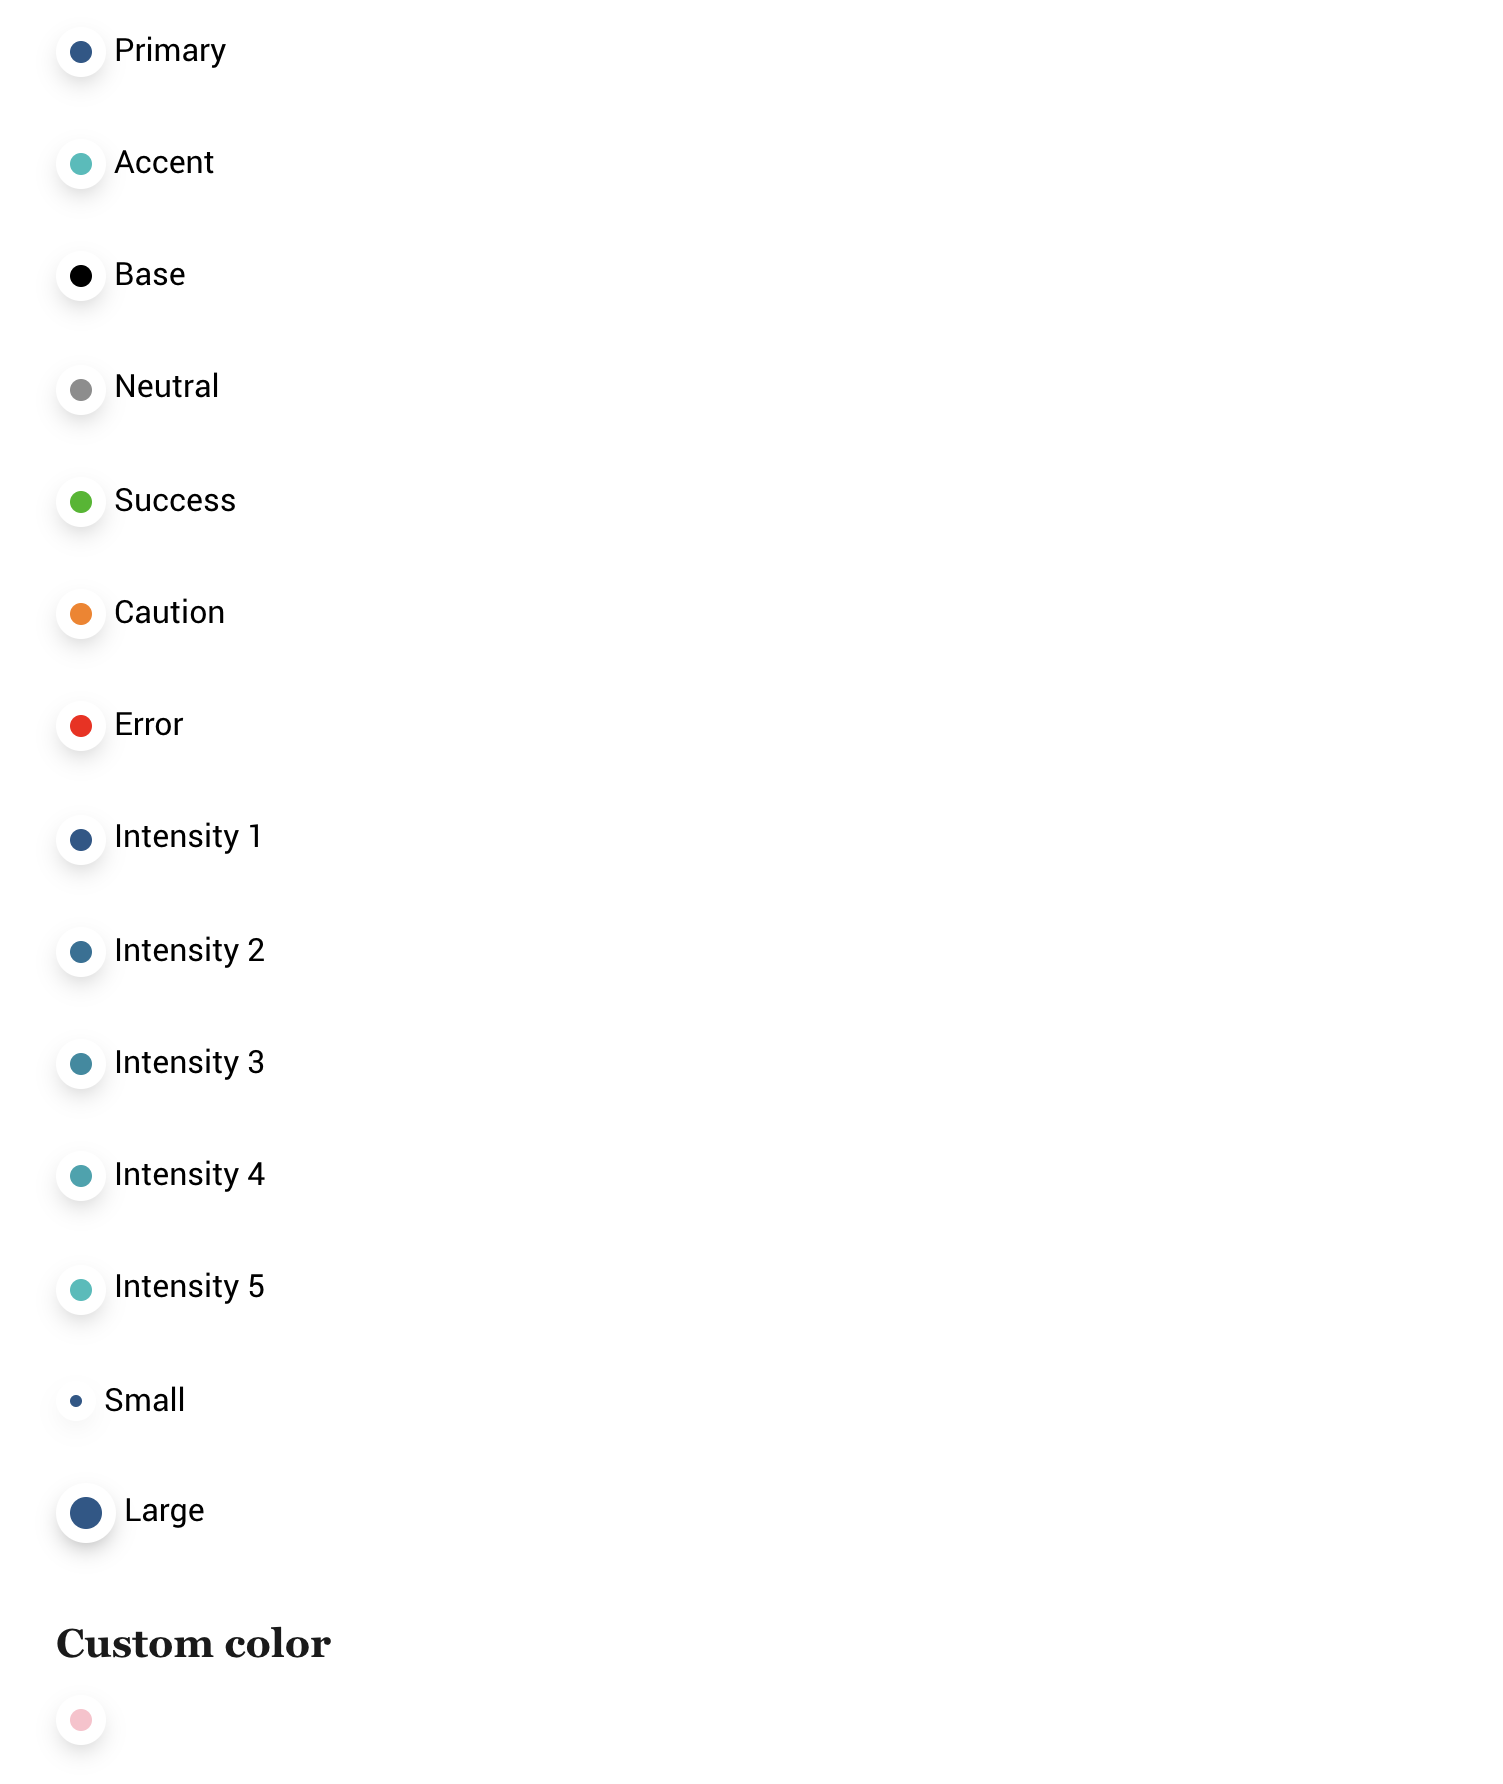
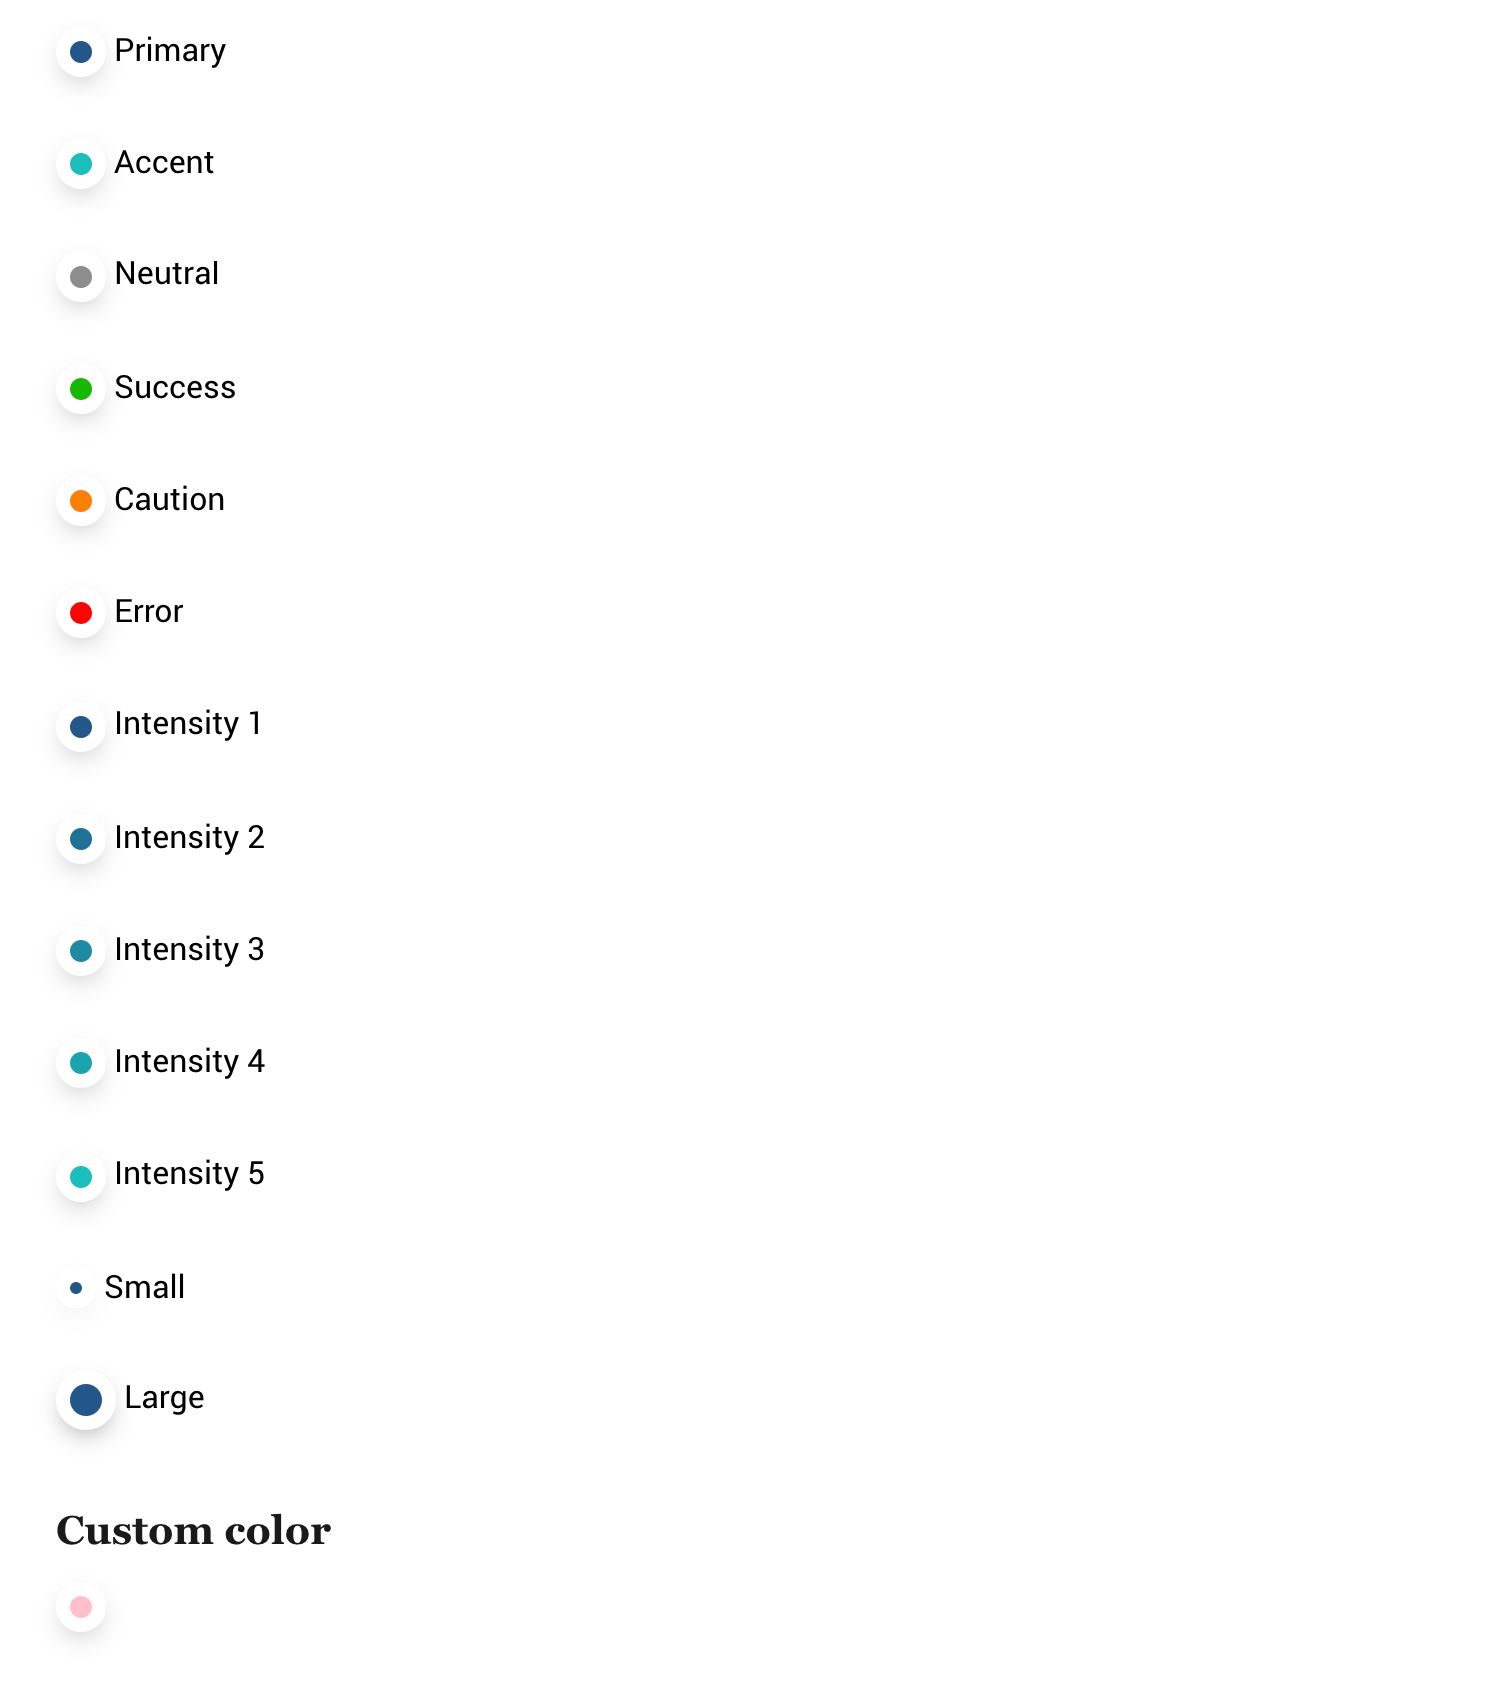
eee

diff --git a/assets/styles/style.css b/assets/styles/style.css
@@ -662,16 +662,6 @@ big {
 .fill-none-toggle.open {
   fill: none !important; }
 
-.fill-base,
-.fill-base-hover:hover:not(.open):not(.active),
-.fill-base-focus:focus:not(.open):not(.active),
-.fill-base-active:active:not(.open):not(.active),
-.fill-base-focus.focus,
-.fill-base-active.active,
-.fill-base-toggle.active,
-.fill-base-toggle.open {
-  fill: #000000 !important; }
-
 .fill-primary,
 .fill-primary-hover:hover:not(.open):not(.active),
 .fill-primary-focus:focus:not(.open):not(.active),
@@ -878,16 +868,6 @@ big {
 .stroke-none-toggle.open {
   stroke: none !important; }
 
-.stroke-base,
-.stroke-base-hover:hover:not(.open):not(.active),
-.stroke-base-focus:focus:not(.open):not(.active),
-.stroke-base-active:active:not(.open):not(.active),
-.stroke-base-focus.focus,
-.stroke-base-active.active,
-.stroke-base-toggle.active,
-.stroke-base-toggle.open {
-  stroke: #000000 !important; }
-
 .stroke-primary,
 .stroke-primary-hover:hover:not(.open):not(.active),
 .stroke-primary-focus:focus:not(.open):not(.active),
@@ -1069,8 +1049,6 @@ table {
       height: calc(6.5625rem - (5px * 2)); }
     .table-small .table-label {
       height: calc(3.125rem - (5px * 2)); }
-  .table-row-base {
-    background-color: rgba(0, 0, 0, 0.2); }
   .table-row-primary {
     background-color: rgba(4, 128, 254, 0.2); }
   .table-row-accent {
@@ -5155,29 +5133,6 @@ table {
       .input-group.input-group-responsive > .input:nth-child(n+2), .input-group.input-group-responsive > .input:nth-child(n+2):hover, .input-group.input-group-responsive .btn:nth-child(n+2), .input-group.input-group-responsive .btn:nth-child(n+2):hover, .input-group.input-group-responsive .trumbowyg:nth-child(n+2), .input-group.input-group-responsive .trumbowyg:nth-child(n+2):hover {
         border-top-color: rgba(0, 0, 0, 0.1) !important; } }
 
-.input-label.input-label-base,
-.input-wrapper-base .input-label, .input-label.input-label-base:focus,
-.input-wrapper-base .input-label:focus, .focus.input-label.input-label-base,
-.input-wrapper-base .focus.input-label {
-  color: #000000 !important; }
-
-.input.input-base:not(:focus):not(.focus),
-.input-wrapper-base .input:not(:focus):not(.focus) {
-  color: #000000 !important;
-  box-shadow: 0px 5px 15px -8px #000000 !important;
-  background-color: rgba(0, 0, 0, 0.05); }
-
-.input.input-base,
-.input-wrapper-base .input, .input.input-base:focus,
-.input-wrapper-base .input:focus, .focus.input.input-base,
-.input-wrapper-base .focus.input {
-  border-color: #000000 !important; }
-  .input-group .input.input-base,
-  .input-group .input-wrapper-base .input, .input-wrapper-base .input-group .input, .input-group .input.input-base:focus,
-  .input-group .input-wrapper-base .input:focus, .input-wrapper-base .input-group .input:focus, .input-group .focus.input.input-base,
-  .input-group .input-wrapper-base .focus.input, .input-wrapper-base .input-group .focus.input {
-    border-color: transparent !important; }
-
 .input-label.input-label-primary,
 .input-wrapper-primary .input-label, .input-label.input-label-primary:focus,
 .input-wrapper-primary .input-label:focus, .focus.input-label.input-label-primary,
@@ -5716,9 +5671,6 @@ CUSTOM STYLES FOR TRUMBOWYG
 
 /*** HELPERS ***/
 /* BACKGROUND CLASSES */
-.table-label-base, .progress-bar-base, .badge-base, .tag-base, .legend-base {
-  background-color: #000000; }
-
 .background-base,
 .background-base-hover:hover:not(.open):not(.active),
 .background-base-focus:focus:not(.open):not(.active),
@@ -6913,6 +6865,12 @@ DASHBOARD / OUR CUSTOM STYLES
   height: 100vh; }
   #dashboard-block-sidebar::-webkit-scrollbar {
     display: none !important; }
+  #dashboard-block-sidebar .container {
+    opacity: 1;
+    -webkit-transition: opacity 0.25s ease-in-out;
+    transition: opacity 0.25s ease-in-out; }
+    #dashboard-block-sidebar .container body:not(.body-loaded) {
+      opacity: 0; }
   #dashboard-block-sidebar .sidebar-logo,
   #dashboard-block-sidebar .sidebar-logo img,
   #dashboard-block-sidebar .sidebar-logo svg {

diff --git a/assets/plugins/framework/scss/import/_internal-vars.scss b/assets/plugins/framework/scss/import/_internal-vars.scss
@@ -50,7 +50,7 @@ $calculated-symbol-caret-width:$symbol-caret-width;
 
 //for helpers
 $calculated-brand-color-declarations : (
-	base: $brand-color-base,
+	// base: $brand-color-base,
 	// background: $brand-color-background,
 	primary: $brand-color-primary,
 	accent: $brand-color-accent,

diff --git a/assets/styles/_dashboard.scss b/assets/styles/_dashboard.scss
@@ -66,6 +66,15 @@ $sidebar-base: 285px;
 				display:none!important;
 			}
 
+			.container {
+				opacity: 1;
+				transition: opacity $transition-duration-base $transition-timing;
+
+				body:not(.body-loaded) {
+					opacity: 0;
+				}
+			}
+
 			.sidebar {
 				&-logo {
 

diff --git a/template/demos.php b/template/demos.php
@@ -348,9 +348,6 @@
 					<div class="progress-bar" style="width: 10%"></div>
 				</div>
 				<br>
-				<div class="progress">
-					<div class="progress-bar progress-bar-base" style="width: 46%"></div>
-				</div>
 				<br>
 				<div class="progress">
 					<div class="progress-bar progress-bar-primary" style="width: 20%"></div>
@@ -721,11 +718,6 @@
 						<p class="input-wrapper input-wrapper-horizontal">
 							<label class="input-label input-label-accent" for="input-accent">accent: </label>
 							<input class="input input-single-line input-accent" id="input-accent" placeholder="accent" type="text">
-						</p>
-
-						<p class="input-wrapper input-wrapper-horizontal">
-							<label class="input-label input-label-base" for="input-base">base: </label>
-							<input class="input input-single-line input-base" id="input-base" placeholder="base" type="text">
 						</p>
 
 						<p class="input-wrapper input-wrapper-horizontal">
@@ -1480,7 +1472,6 @@
 			<button type="button" class="btn btn-primary">Primary</button>
 			<button type="button" class="btn btn-accent">accent</button>
 			<button type="button" class="btn btn-neutral">neutral</button>
-			<button type="button" class="btn btn-base">base</button>
 			<button type="button" class="btn btn-success">Success</button>
 			<button type="button" class="btn btn-caution">caution</button>
 			<button type="button" class="btn btn-error">error</button>
@@ -1491,7 +1482,6 @@
 			<button type="button" class="btn btn-small btn-primary">Primary</button>
 			<button type="button" class="btn btn-small btn-accent">accent</button>
 			<button type="button" class="btn btn-small btn-neutral">neutral</button>
-			<button type="button" class="btn btn-small btn-base">base</button>
 			<button type="button" class="btn btn-small btn-success">Success</button>
 			<button type="button" class="btn btn-small btn-caution">caution</button>
 			<button type="button" class="btn btn-small btn-error">error</button>
@@ -1502,7 +1492,7 @@
 			<button type="button" class="btn btn-large btn-primary">Primary</button>
 			<button type="button" class="btn btn-large btn-accent">accent</button>
 			<button type="button" class="btn btn-large btn-neutral">neutral</button>
-			<button type="button" class="btn btn-large btn-base">base</button>
+			
 			<button type="button" class="btn btn-large btn-success">Success</button>
 			<button type="button" class="btn btn-large btn-caution">caution</button>
 			<button type="button" class="btn btn-large btn-error">error</button>
@@ -1510,7 +1500,7 @@
 
 			<h2>Block</h2>
 
-			<button type="button" class="btn btn-large btn-block btn-success font-weight-300"><i class="badge badge-success"></i> button Block for when you want to take over the world</button>
+			<button type="button" class="btn btn-large btn-block btn-success"><i class="badge badge-success"></i> button Block for when you want to take over the world</button>
 			<h2>
 				Disabled
 			</h2>
@@ -1518,7 +1508,6 @@
 			<a href="#" class="btn btn-disabled btn-primary">Primary</a>
 			<a href="#" class="btn btn-disabled btn-accent">accent</a>
 			<a href="#" class="btn btn-disabled btn-neutral">neutral</a>
-			<a href="#" class="btn btn-disabled btn-base">base</a>
 			<a href="#" class="btn btn-disabled btn-success">Success</a>
 			<a href="#" class="btn btn-disabled btn-caution">caution</a>
 			<a href="#" class="btn btn-disabled btn-error">error</a>
@@ -1846,9 +1835,7 @@
 			<p>
 				<span class="badge badge-accent"></span> Accent
 			</p>
-			<p>
-				<span class="badge badge-base"></span> Base
-			</p>
+			
 			<p>
 				<span class="badge badge-neutral"></span> Neutral
 			</p>
@@ -1901,10 +1888,6 @@
 			</p>
 
 			<p>
-				<span class="legend legend-base"></span> Base
-			</p>
-
-			<p>
 				<span class="legend legend-neutral"></span> Neutral
 			</p>
 
@@ -1949,7 +1932,6 @@
 		<div class="accordion">
 			<span class="tag tag-primary">Primary</span>
 			<span class="tag tag-accent">Accent</span>
-			<span class="tag tag-base">Base</span>
 			<span class="tag tag-neutral">Neutral</span>
 			<span class="tag tag-success">Success</span>
 			<span class="tag tag-caution">Caution</span>
@@ -2170,13 +2152,6 @@
 					<tr class="table-row-neutral">
 						<td class="table-cell-no-gutter"><span class="table-label table-label-neutral"></span></td>
 						<td>neutral</td>
-						<td>Column content</td>
-						<td class="text-align-right">Column content</td>
-						<td class="text-align-center">0</td>
-					</tr>
-					<tr class="table-row-base">
-						<td class="table-cell-no-gutter"><span class="table-label table-label-base"></span></td>
-						<td>base</td>
 						<td>Column content</td>
 						<td class="text-align-right">Column content</td>
 						<td class="text-align-center">0</td>
@@ -2845,9 +2820,6 @@
 						</g>
 						<g>
 							<rect x="600" y="177.5" class="fill-neutral" width="0" height="76.1"></rect>
-						</g>
-						<g>
-							<rect x="480" y="262" class="fill-base" width="120" height="76.1"></rect>
 						</g>
 						<g>
 							<rect y="346.5" class="fill-success stroke-error" width="600" height="76.1"></rect>

diff --git a/assets/plugins/framework/docs/sections/components/progress.md b/assets/plugins/framework/docs/sections/components/progress.md
@@ -13,7 +13,6 @@ A bitch that shows progress using **.progress** and  **.progress-bar**
 
 To color the progress, add `.progress-bar-[color-tag]` to `.progress-bar`
 
-*	**`.progress-bar-base`**
 *	**`.progress-bar-primary`**
 *	**`.progress-bar-accent`**
 *	**`.progress-bar-neutral`**
@@ -32,9 +31,6 @@ To color the progress, add `.progress-bar-[color-tag]` to `.progress-bar`
 	<div class="progress-bar" style="width: 10%"></div>
 </div>
 <br>
-<div class="progress">
-	<div class="progress-bar progress-bar-base" style="width: 46%"></div>
-</div>
 <br>
 <div class="progress">
 	<div class="progress-bar progress-bar-primary" style="width: 20%"></div>
@@ -87,7 +83,7 @@ the color can be customized by adding a background-color property to `.progress-
 
 ```html
 <div class="progress">
-	<div class="progress-bar progress-bar-base" style="background-color:pink;"></div>
+	<div class="progress-bar" style="background-color:pink;"></div>
 </div>
 ```
 

diff --git a/assets/plugins/framework/docs/sections/components/form.md b/assets/plugins/framework/docs/sections/components/form.md
@@ -507,7 +507,6 @@ To set the wrapper to a full width block, add **`.input-wrapper-block`**
 
 To add feedback color the `.input`, add `.input-[color-tag]`.
 
-*	**`.input-base`**
 *	**`.input-primary`**
 *	**`.input-accent`**
 *	**`.input-neutral`**
@@ -519,7 +518,6 @@ To add feedback color the `.input`, add `.input-[color-tag]`.
 
 To add feedback color the `.input-label`, add `.input-[color-tag]`.
 
-*	**`.label-base`**
 *	**`.label-primary`**
 *	**`.label-accent`**
 *	**`.label-neutral`**
@@ -533,7 +531,6 @@ To add feedback color the `.input-label`, add `.input-[color-tag]`.
 
 Adding the color class on `.input-group` styles both the `.input-label` and `.input` within it
 
-*	**`.input-wrapper-base`**
 *	**`.input-wrapper-primary`**
 *	**`.input-wrapper-accent`**
 *	**`.input-wrapper-neutral`**

diff --git a/assets/plugins/framework/docs/sections/scaffolding/helpers.md b/assets/plugins/framework/docs/sections/scaffolding/helpers.md
@@ -9,6 +9,7 @@ All influenced by [color declarations](../scaffolding/colors.md)
 #### Background
 
 *   **`.background-base` (Not to be confused with theme-color)**
+*   **`.background-background` (Not to be confused with theme-background)**
 *   **`.background-primary`**
 *   **`.background-accent`**
 *   **`.background-neutral`**
@@ -40,6 +41,7 @@ This will add gradient colors. By default, the gradient will be at angle 0deg, a
 #### Color
 
 *   **`.color-base` (Not to be confused with theme-color)**
+*   **`.color-background` (Not to be confused with theme-background)**
 *   **`.color-primary`**
 *   **`.color-accent`**
 *   **`.color-neutral`**

diff --git a/assets/plugins/framework/docs/sections/scaffolding/images.md b/assets/plugins/framework/docs/sections/scaffolding/images.md
@@ -72,7 +72,7 @@ These helper classes follow the same setup as [background and color helpers](../
 ##### Basic
 
 ###### Absolute values
-*   **`.['fill' or 'stroke']-base` (Not to be confused with theme-color)**
+
 *   **`.['fill' or 'stroke']-primary`**
 *   **`.['fill' or 'stroke']-accent`**
 *   **`.['fill' or 'stroke']-neutral`**

diff --git a/assets/plugins/framework/docs/sections/scaffolding/table.md b/assets/plugins/framework/docs/sections/scaffolding/table.md
@@ -43,7 +43,7 @@ Replicate a `<thead>`,`<tbody>`,`<tfoot>` or `<tr>` element
 
 ##### Colors 
 The folloing classes style table rows to [framework colors](../scaffolding/colors.md#color-tags)
-*	**.table-row-base**
+
 *	**.table-row-primary**
 *	**.table-row-accent**
 *	**.table-row-neutral**

diff --git a/assets/plugins/framework/docs/sections/components/legend.md b/assets/plugins/framework/docs/sections/components/legend.md
@@ -12,7 +12,6 @@ This is to display graph color legends or whatever has colors and needs some leg
 
 To color the legends, add `.legend-[color-tag]`
 
-*	**`.legend-base`**
 *	**`.legend-primary`**
 *	**`.legend-accent`**
 *	**`.legend-neutral`**

diff --git a/assets/plugins/framework/docs/sections/scaffolding/colors.md b/assets/plugins/framework/docs/sections/scaffolding/colors.md
@@ -99,7 +99,6 @@ Color and contrast palettes interchange on inverse theme by default. to see this
 
 ## Color tags
 These are valid color tags for all javascript arguments or data attributes
-*	`base`
 *	`primary`
 *	`accent`
 *	`neutral`

diff --git a/assets/plugins/framework/docs/sections/components/badge.md b/assets/plugins/framework/docs/sections/components/badge.md
@@ -11,7 +11,6 @@ This is to display.. a circle boi.. :)
 
 To color the badges, add `.badge-[color-tag]`
 
-*	**`.badge-base`**
 *	**`.badge-primary`**
 *	**`.badge-accent`**
 *	**`.badge-neutral`**
